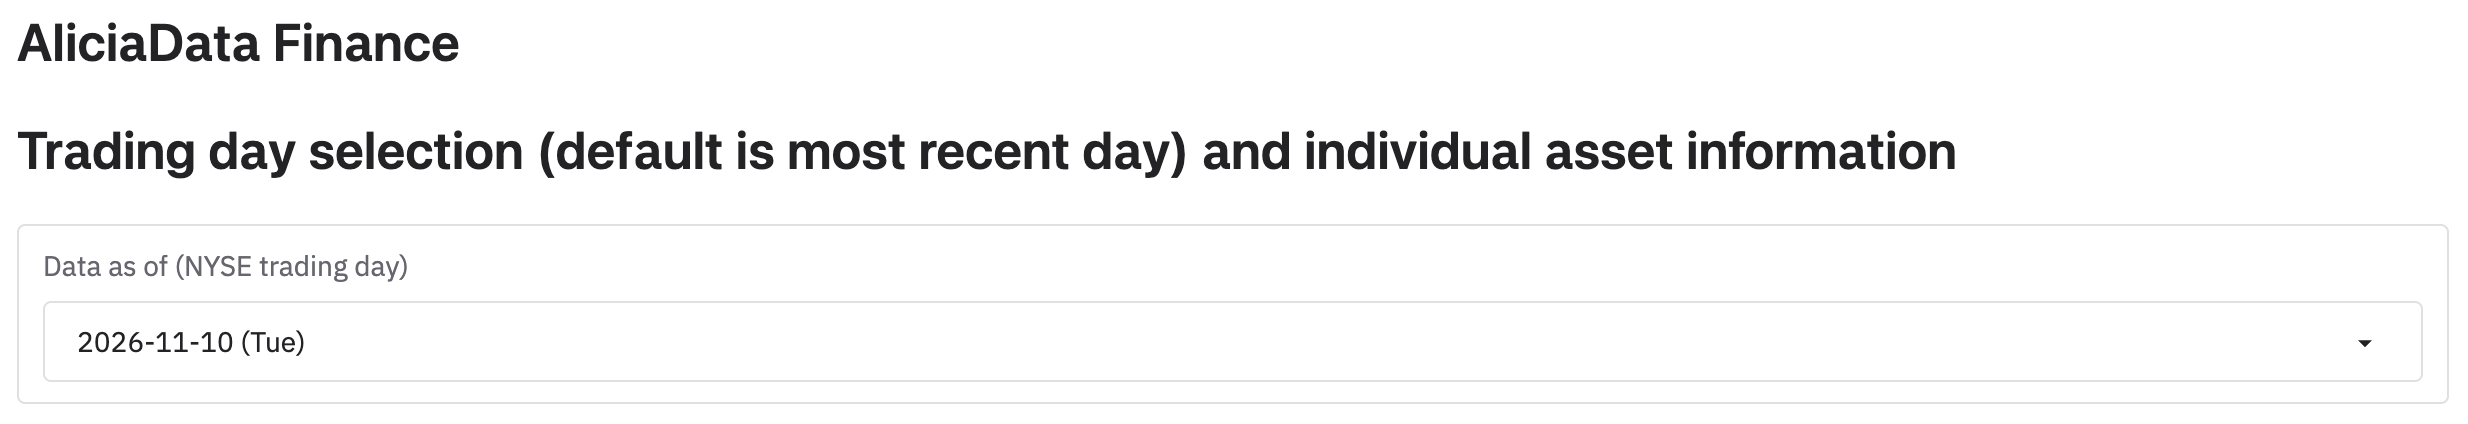
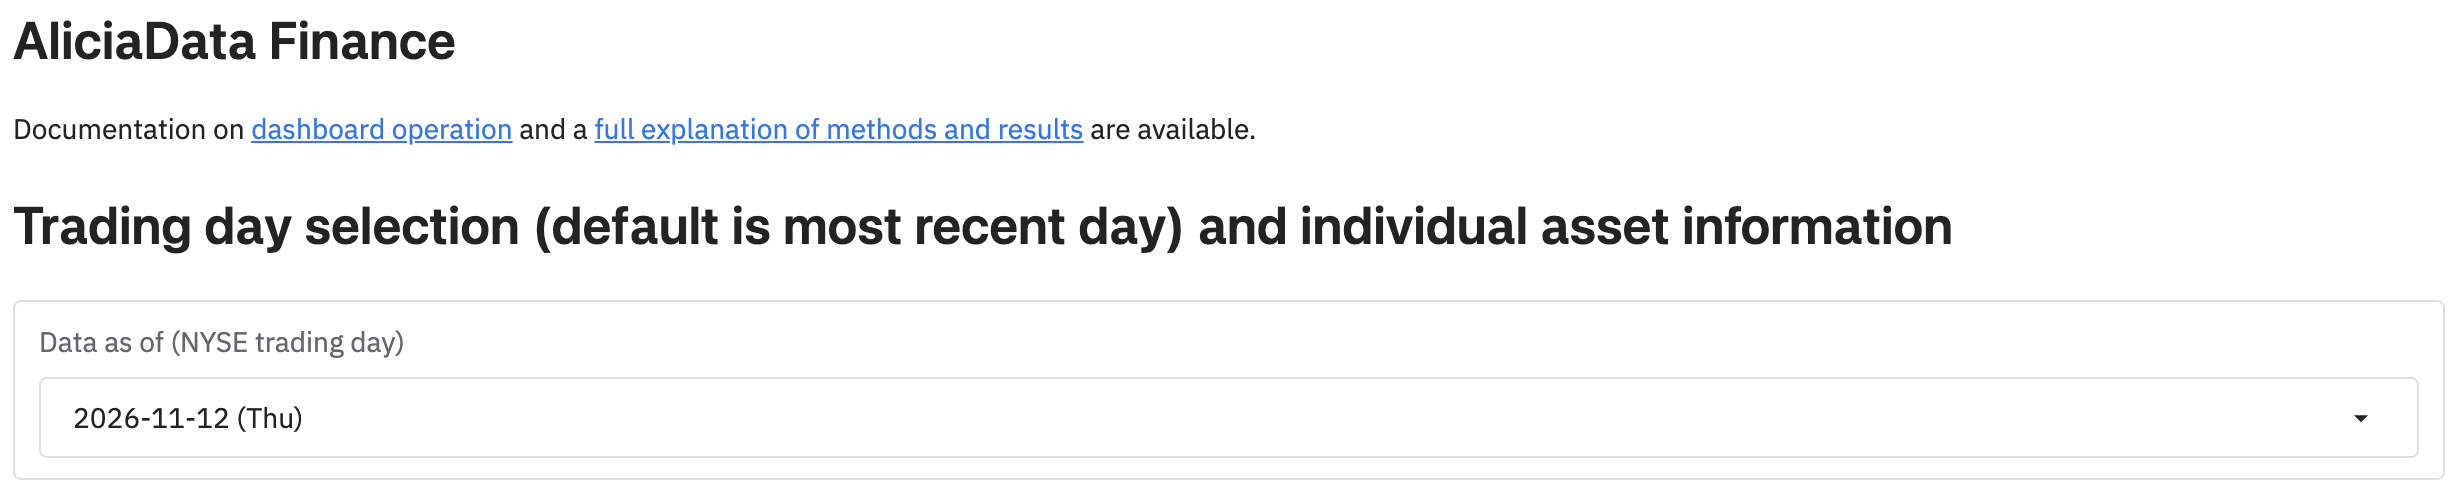
Issue #106
Update the dashboard guide for the new layout, diagrams, and year-long back test

Changed region(s): [[0.0, 0.2453, 0.9878, 0.5519], [0.0, 0.5825, 1.0, 0.9811], [0.0, 0.0307, 0.1852, 0.1533]]

diff --git a/docs/DASHBOARD_GUIDE.md b/docs/DASHBOARD_GUIDE.md
@@ -17,9 +17,9 @@ This guide deliberately stays brief on methods. For how the results are computed
 
 The dashboard is a single page, read from top to bottom:
 
-1. **AliciaData Finance:** the date selector and the information about individual assets.
+1. **AliciaData Finance:** links to this guide and to the Methods and Results document, then the date selector and the information about individual assets.
 2. **Portfolio Optimization:**
-   - **Historical Performance Back Test:** how an optimized portfolio did over recent trading days, compared with an equal-weight baseline.
+   - **Historical Performance Back Test:** how an optimized portfolio did over about the last year of trading days, compared with an equal-weight baseline.
    - **Latest Optimization:** the optimized portfolios estimated from the most recent data.
 3. **Timeseries Analysis:** one-day-ahead price forecasts for one ticker, compared with a naive baseline forecast.
 
@@ -27,13 +27,15 @@ Both sections answer the same kind of question: **does the model do better than 
 
 ## Selecting a date
 
-![The top of the page: the AliciaData Finance title, the "Data as of (NYSE trading day)" date dropdown, and the collapsed individual assets accordion](images/dashboard-guide/01-date-selector.png)
+![The top of the page: the AliciaData Finance title, the line linking to the dashboard documentation and to the full explanation of methods and results, the "Trading day selection" title, and the "Data as of (NYSE trading day)" date dropdown](images/dashboard-guide/01-date-selector.png)
+
+The line under the title links to this guide and to the [Methods and Results](https://akey7.github.io/posts/aliciadata-finance/) document.
 
 The **Data as of (NYSE trading day)** dropdown selects which backend run the whole page shows. Each entry is the last trading day of price data in that run, shown with its weekday, such as `2026-11-06 (Fri)`. The newest date is selected when the page opens, and older dates stay available for comparison.
 
 Changing the date reloads **both** sections from that date's results, so everything on the page always comes from the same run. The backend is run by hand, so dates are not consecutive and the newest date may be a few days old. Check this dropdown to see how current the data is.
 
-Older dates were produced by earlier versions of the backend, so some of them lack newer parts of the page, such as the back test or the accuracy metrics. In those places, the page shows a short message instead.
+Older dates were produced by earlier versions of the backend, so some of them lack newer parts of the page, such as the back test or the accuracy metrics. In those places, the page shows a short message instead. Older dates also have much shorter back tests, about three months instead of about a year, so check the back test's dates before comparing its results across dates.
 
 ### Information about individual assets
 
@@ -51,22 +53,24 @@ This section compares an optimized portfolio, the **maximum Sharpe ratio portfol
 
 ### Historical Performance Back Test
 
-![The Historical Performance Back Test heading with its date range, the blue Max Sharpe Portfolio cards, the gray Equal-Weight Baseline Portfolio cards, and the note below them](images/dashboard-guide/03-backtest-cards.png)
+![The Historical Performance Back Test heading with its date range of about a year. On the left, the blue Max Sharpe Portfolio cards and the gray Equal-Weight Baseline Portfolio cards (Cumulative Return, CAGR, Max Drawdown, and Annualized Volatility (realized)), with the note below them. On the right, a diagram of the rolling optimization: each optimization uses 250 days of data and is followed by a short out-of-sample period, and each one starts later than the one before](images/dashboard-guide/03-backtest-cards.png)
 
 The heading shows the period the back test covers. Over that period, the max Sharpe portfolio was periodically re-optimized using only the data available at each point in time, and the baseline was periodically reset to equal weights. The results are out of sample: each portfolio is scored on days that came after the data it was built from.
+
+The diagram beside the cards shows this schedule. Each bar is one optimization: the blue part is the previous 250 trading days of data it uses, and the orange part is the out-of-sample days that follow, during which the portfolio is held. The next optimization starts later and again uses only the data available at that point.
 
 Each portfolio has a row of cards. The blue cards are the max Sharpe portfolio, and the gray cards are the equal-weight baseline:
 
 | Card | Better when |
 | --- | --- |
-| **CAGR** | Higher |
 | **Cumulative Return** | Higher |
+| **CAGR** | Higher |
 | **Max Drawdown** | Closer to 0% |
 | **Annualized Volatility (realized)** | Lower |
 
-The note below the cards states how many daily returns the metrics were calculated from. The volatility card appears only for dates whose results include it.
+Cumulative return is the main comparison. Over a back test of about a year, CAGR comes out close to cumulative return. The note below the cards states how many daily returns the metrics were calculated from. The volatility card appears only for dates whose results include it.
 
-![The Growth of $1 plot: the value of $1 invested in the max Sharpe portfolio (blue) and the equal-weight baseline (gray) at each market close](images/dashboard-guide/04-growth-of-1.png)
+![The Growth of $1 plot over about a year: the value of $1 invested in the max Sharpe portfolio (blue) and the equal-weight baseline (gray) at each market close](images/dashboard-guide/04-growth-of-1.png)
 
 The **Growth of $1** plot shows what $1 invested in each portfolio at the start of the period was worth at each later market close. The blue line is the max Sharpe portfolio and the gray line is the equal-weight baseline, so the plot compares the optimized portfolio against the naive baseline day by day. A line that ends higher grew more over the period. Hover over the plot to see the trading day and each portfolio's value.
 
@@ -101,25 +105,13 @@ This section compares one-day-ahead **ARIMA** price forecasts with a **naive for
 
 The **Ticker** dropdown selects which ticker the plot and the accuracy metrics show. It lists only the tickers in the selected date's results. As explained in "Why you cannot choose your own tickers", other tickers cannot be entered.
 
-### Forecast plot
-
-![The forecast plot for one ticker: actual close, ARIMA forecast, and naive forecast, with the tooltip of an ARIMA point showing its model](images/dashboard-guide/07-forecast-plot.png)
-
-The plot shows, for each trading day, three lines:
-
-- **Actual:** the ticker's adjusted closing price.
-- **ARIMA forecast:** the model's forecast of that close, made using only data from before that day.
-- **Naive forecast:** the most recent observed close before that day.
-
-Where the forecast lines stay closer to the actual line, the forecasts were more accurate. Every day except the last has an actual close, so those forecasts can be checked. The **last point** is the forecast for the next trading day, which has not happened yet, so it has no actual close.
-
-Hover over an ARIMA point to see the model behind that day's forecast. The model is refit every day, so its settings can change from one day to the next.
-
 ### Forecast accuracy
 
-![The Forecast accuracy table comparing ARIMA and naive forecasts, and the gray ARIMA vs. naive panel with relative MAE and skill](images/dashboard-guide/08-forecast-accuracy.png)
+![The top of Timeseries Analysis. On the left, the Ticker dropdown and the Forecast accuracy table comparing the ARIMA and naive forecasts. On the right, a diagram of the walk-forward fitting (each fit uses 250 days of data and is scored on the next day, and each one starts a day later than the one before), with the gray ARIMA vs. naive panel showing relative MAE and skill below it](images/dashboard-guide/08-forecast-accuracy.png)
 
-The **Forecast accuracy** table scores the ARIMA and naive forecasts on the same recent trading days, side by side. The line above it gives the number of days and their dates.
+The diagram on the right shows how the forecasts are made. Each bar is one fit: the blue part is the previous 250 trading days the model is fitted on, and the orange part is the next day, the one it forecasts and is scored on. The window then moves forward one day for the next fit.
+
+The **Forecast accuracy** table scores the ARIMA and naive forecasts on the same recent trading days, side by side. The line above it gives the number of days and their dates. These scored days cover a much shorter, more recent period than the back test in Portfolio Optimization, so the two sections' numbers do not come from the same days.
 
 | Metric | Units | Better when |
 | --- | --- | --- |
@@ -130,7 +122,7 @@ The **Forecast accuracy** table scores the ARIMA and naive forecasts on the same
 
 RMSE and MAE are in each ticker's own price units, so use them to compare ARIMA with the naive forecast for one ticker, not to compare tickers. MAPE is in percent, so it can be compared across tickers. The naive forecast predicts no change, so it has no directional accuracy.
 
-The gray **ARIMA vs. naive** panel sums up the comparison in two numbers and a sentence:
+The gray **ARIMA vs. naive** panel, under the diagram, sums up the comparison in two numbers and a sentence:
 
 | Metric | Better when |
 | --- | --- |
@@ -138,6 +130,20 @@ The gray **ARIMA vs. naive** panel sums up the comparison in two numbers and a s
 | **Skill** | Above 0 (ARIMA beat the naive forecast) |
 
 Both are scale-free, so they can also be compared across tickers.
+
+### Forecast plot
+
+![The full-width forecast plot for one ticker (GLD): the actual close (blue), the ARIMA forecast (orange), and the naive forecast (gray) at each market close](images/dashboard-guide/07-forecast-plot.png)
+
+The plot runs the full width of the page, below the metrics. It shows, for each trading day, three lines:
+
+- **Actual:** the ticker's adjusted closing price.
+- **ARIMA forecast:** the model's forecast of that close, made using only data from before that day.
+- **Naive forecast:** the most recent observed close before that day.
+
+Where the forecast lines stay closer to the actual line, the forecasts were more accurate. Every day except the last has an actual close, so those forecasts can be checked. The **last point** is the forecast for the next trading day, which has not happened yet, so it has no actual close.
+
+Hover over an ARIMA point to see the model behind that day's forecast. The model is refit every day, so its settings can change from one day to the next.
 
 The collapsed **Reading the accuracy metrics, walk-forward ARIMA, naive forecasting, and out-of-sample evaluation...** accordion below the plot gives the training and scoring windows for the selected date. For how the metrics are calculated, see the [Methods and Results](https://akey7.github.io/posts/aliciadata-finance/) document.
 
